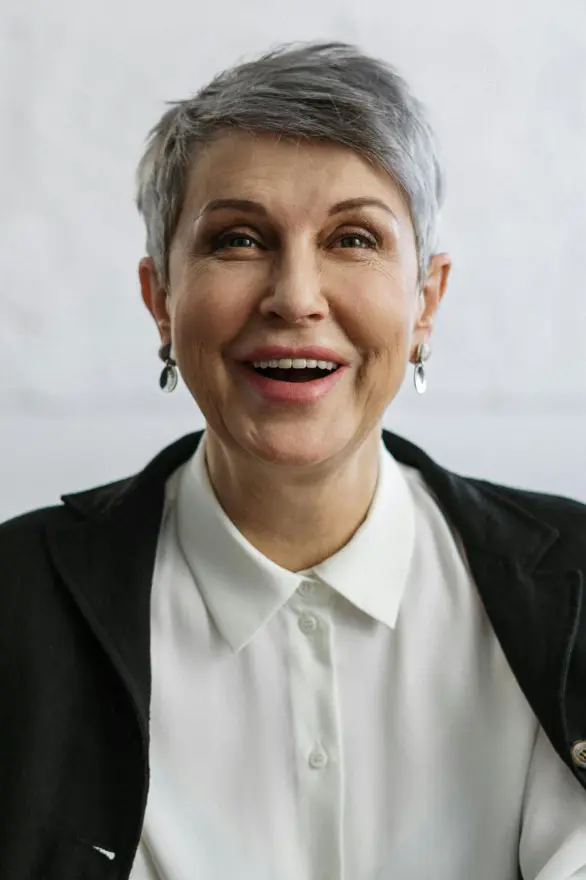
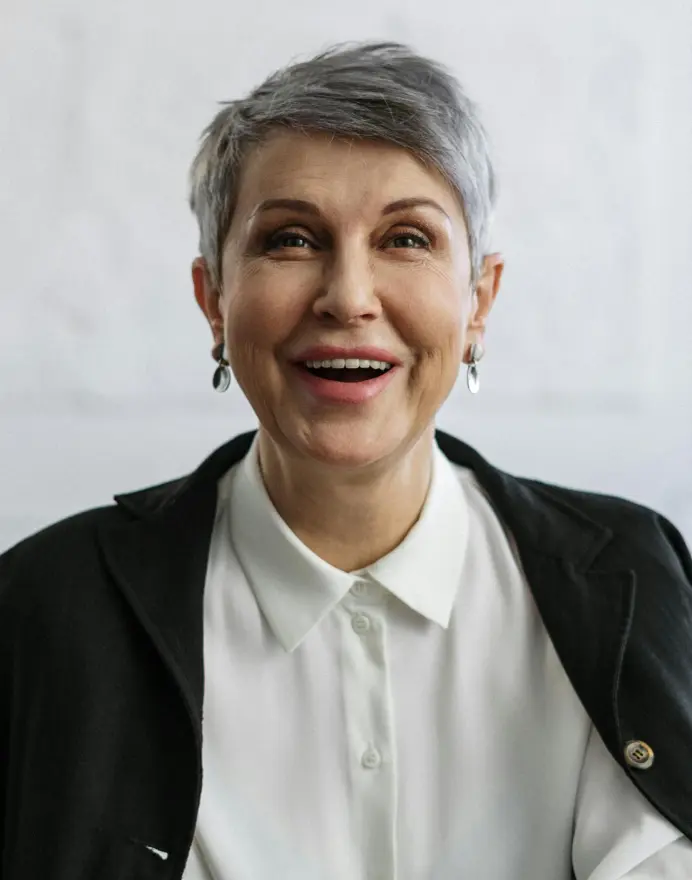
team slider updates

diff --git a/src/static/javascript/core/animations.js b/src/static/javascript/core/animations.js
@@ -1,5 +1,11 @@
 gsap.registerPlugin(ScrollTrigger);
 
+/**
+ * NOTE: The placement of functions can alter the animation.
+ * For example - Placing the 'pinnedSectionAnimation()' after/beneath
+ * the 'generalClassToggle' seems to break the footer brand name animation
+ */
+
 // Responsive animations go here
 const responsiveAnimations = (() => {
   let responsiveGsap = gsap.matchMedia();
@@ -57,51 +63,78 @@ const responsiveAnimations = (() => {
           null
         );
       }
+    }
+  );
+})();
 
-      // All Pages? Also... some of these aren't using the responsive context. Look into this.
-      // Team Portraits
-      const pinnedSection = document.querySelector(".essence-team");
-      if (pinnedSection) {
-        const slider = document.querySelector(".pinned-slider__inner");
-        const container = document.querySelector(".pinned-slider");
-        const sliderWidth = slider.scrollWidth;
-        const containerWidth = container.offsetWidth;
-        const distanceToTranslate = sliderWidth - containerWidth;
+// About Page - Pinned Section (Team Portraits). Might make it global.
+const pinnedSectionAnimation = (() => {
+  const pinnedSection = document.querySelector(".pinned-section");
 
-        gsap.to(pinnedSection, {
+  if (pinnedSection) {
+    const slider = document.querySelector(".pinned-slider__inner");
+    const container = document.querySelector(".pinned-slider");
+    const sliderWidth = slider.scrollWidth;
+    const containerWidth = container.offsetWidth;
+    const distanceToTranslate = sliderWidth - containerWidth;
+
+    // Actual Pinning
+    gsap.to(pinnedSection, {
+      scrollTrigger: {
+        trigger: pinnedSection,
+        start: "top top",
+        end: "+=400%",
+        pin: true,
+      },
+    });
+
+    // Slider Along X-Axis
+    gsap.fromTo(
+      slider,
+      { x: 0 },
+      {
+        x: () => -distanceToTranslate,
+        ease: "none",
+        scrollTrigger: {
+          trigger: pinnedSection,
+          start: "top top",
+          end: "+=400%",
+          scrub: 0.25,
+        },
+      }
+    );
+
+    // Horizontal Parallax
+    const startPositions = [
+      "-6%",
+      "-8%",
+      "-12%",
+      "-16%",
+      "-20%",
+      "-24%",
+      "-48%",
+      "-80%",
+    ];
+    const endPositions = ["8%", "6%", "4%", "2%", "2%", "-4%", "-6%", "-8%"];
+
+    startPositions.forEach((startPos, index) => {
+      gsap.fromTo(
+        `.portrait:nth-of-type(${index + 1}) img`,
+        {
+          x: startPos,
+        },
+        {
+          x: endPositions[index],
           scrollTrigger: {
             trigger: pinnedSection,
             start: "top top",
-            // end: "bottom top",
             end: "+=400%",
-            pin: true,
-            // markers: true,
+            scrub: 0.2,
           },
-        });
-
-        gsap.fromTo(
-          slider,
-          { x: 0 },
-          {
-            x: () => -distanceToTranslate,
-            ease: "none",
-            scrollTrigger: {
-              trigger: ".essence-team",
-              start: "top top",
-              // end: "bottom top",
-              end: "+=400%",
-              scrub: 0.2,
-              // markers: {
-              //   startColor: "navy",
-              //   endColor: "navy",
-              //   indent: 124,
-              // },
-            },
-          }
-        );
-      }
-    }
-  );
+        }
+      );
+    });
+  }
 })();
 
 // Toggle an '.animate' class to be used by the css
@@ -136,7 +169,12 @@ const generalClassToggle = (() => {
   };
 
   // Global Footer - Essence brand name
-  toggleClassAnimate(".brand-name-wrapper", ".brand-name-wrapper");
+  toggleClassAnimate(
+    ".brand-name-wrapper",
+    ".brand-name-wrapper",
+    undefined,
+    undefined
+  );
 
   // Home Page - Hero
   toggleClassAnimate(
@@ -170,14 +208,12 @@ const generalClassToggle = (() => {
     ".essence-paragraph__media-praises .essence-paragraph__heading-svg",
     undefined,
     undefined
-    // { startColor: "navy", endColor: "navy", indent: 128 }
   );
   toggleClassAnimate(
     ".essence-paragraph__media-praises .essence-paragraph__body-text",
     ".essence-paragraph__media-praises .essence-paragraph__body-text",
     "top bottom",
     "bottom top"
-    // true
   );
 
   // ALL Archive Pages' - Hero Paragraph [Blog, Podcasts, Books, Films]
@@ -193,7 +229,7 @@ const generalClassToggle = (() => {
   );
 
   // About Page - Paragraph
-  toggleClassAnimate(".collage", ".collage", "top bottom", "90% 4%", false);
+  toggleClassAnimate(".collage", ".collage", "top bottom", "90% 4%");
   toggleClassAnimate(
     ".essence-paragraph__about-us .essence-paragraph__heading-svg",
     ".essence-paragraph__about-us .essence-paragraph__heading-svg"
@@ -206,7 +242,8 @@ const generalClassToggle = (() => {
   );
 })();
 
-const paragraphReveal = (() => {
+// Simple reveal that uses the parent class '.show-element__parent' and '.show-element__child'
+const slideUp = (() => {
   document
     .querySelectorAll(".show-element__parent")
     .forEach((parentElement) => {

diff --git a/src/static/styles/styles.css b/src/static/styles/styles.css
@@ -3599,7 +3599,7 @@ main:has(.about-hero) .essence-paragraph__about-us {
     display: none;
   }
 }
-@media screen and (max-width: 480px) {
+@media (max-width: 580px) {
   .about-hero .collage .collage-column__column-1 {
     display: none;
   }
@@ -5022,20 +5022,29 @@ main:has(.about-hero) .essence-paragraph__about-us {
     gap: 32px;
   }
 }
-.pinned-slider .portrait img {
+.pinned-slider .portrait {
   width: min(24vw, 464px);
-  margin-block-end: 12px;
-  opacity: 0.8;
+  aspect-ratio: 586/880;
 }
 @media screen and (max-width: 1024px) {
-  .pinned-slider .portrait img {
+  .pinned-slider .portrait {
     width: 28vw;
   }
 }
 @media screen and (max-width: 768px) {
-  .pinned-slider .portrait img {
+  .pinned-slider .portrait {
     width: 52vw;
   }
+}
+.pinned-slider .portrait-wrapper {
+  width: 100%;
+  overflow: hidden;
+  margin-block-end: 12px;
+}
+.pinned-slider .portrait img {
+  width: 116%;
+  translate: -5% 0;
+  opacity: 0.9;
 }
 .pinned-slider .portrait figcaption {
   font-size: 18px;

diff --git a/src/_includes/partials/team.html b/src/_includes/partials/team.html
@@ -1,7 +1,7 @@
-<section class="essence-team">
+<section class="essence-team pinned-section">
   <div class="essence-resources__header">
     <h2 class="h5 essence-resources__heading">
-      <span>Meet the coaches</span>
+      <span>Our Mentors</span>
     </h2>
   </div>
 
@@ -9,7 +9,9 @@
     <div class="pinned-slider__inner team-portraits">
       {% for image in team_portraits.images %}
       <figure class="portrait">
-        <img src="{{ image.src }}" alt="{{ image.description }}" />
+        <div class="portrait-wrapper">
+          <img src="{{ image.src }}" alt="{{ image.description }}" />
+        </div>
         <figcaption>{{ image.caption }}</figcaption>
       </figure>
       {% endfor %}

diff --git a/src/static/styles/partials/_team.scss b/src/static/styles/partials/_team.scss
@@ -45,18 +45,28 @@
   }
 
   .portrait {
-    img {
-      width: min(24vw, 464px);
+    width: min(24vw, 464px);
+    aspect-ratio: 586 / 880;
+
+    @include mq-max("lg") {
+      width: 28vw;
+    }
+
+    @include mq-max("md") {
+      width: 52vw;
+    }
+
+    &-wrapper {
+      width: 100%;
+      // height: 100%;
+      overflow: hidden; // To allow figcaption to NOT be hidden
       margin-block-end: 12px;
-      opacity: 0.8;
+    }
 
-      @include mq-max("lg") {
-        width: 28vw;
-      }
-
-      @include mq-max("md") {
-        width: 52vw;
-      }
+    img {
+      width: 116%;
+      translate: -5% 0;
+      opacity: 0.9;
     }
 
     figcaption {

diff --git a/src/static/javascript/core/three.js b/src/static/javascript/core/three.js
@@ -71,7 +71,7 @@ class WaveEffect {
     // create a plane mesh with materials
     this.planeMesh = new THREE.Mesh(
       // new THREE.PlaneGeometry(2, 2),
-      new THREE.PlaneGeometry(1.4, 1.8),
+      new THREE.PlaneGeometry(1.4, 1.8), // Adjust the aspect ratio of the images (width and height)
       new THREE.ShaderMaterial({
         uniforms: this.shaderUniforms,
         vertexShader,

diff --git a/src/static/styles/pages/_about.scss b/src/static/styles/pages/_about.scss
@@ -16,7 +16,6 @@ main:has(.about-hero) {
   padding-block: $body-padding;
 
   .collage {
-    // border: $test;
     $animation-duration: 2s;
     $animation-delay: 0.4s;
 
@@ -48,7 +47,7 @@ main:has(.about-hero) {
       }
 
       &__column-1 {
-        @include mq-max("sm") {
+        @media (max-width: 580px) {
           display: none;
         }
       }

diff --git a/src/index.html b/src/index.html
@@ -4,7 +4,7 @@ layout: "app"
 path: home
 ---
 
-<section class="hero-section home-hero animate">
+<section class="hero-section home-hero">
   <h1 class="h1 home-hero__heading">
     <span class="home-hero__heading-text">
       <span class="home-hero__heading-text-inner-1">Live more</span>
